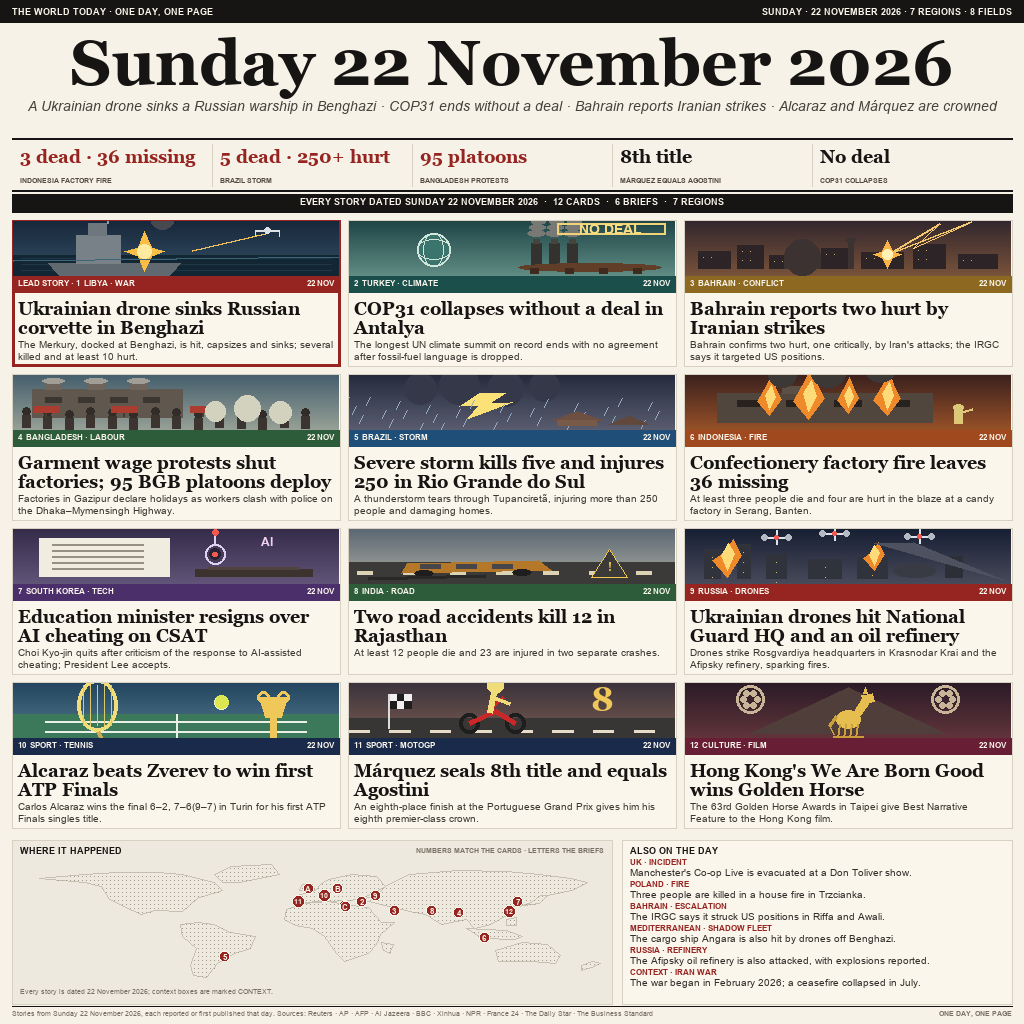
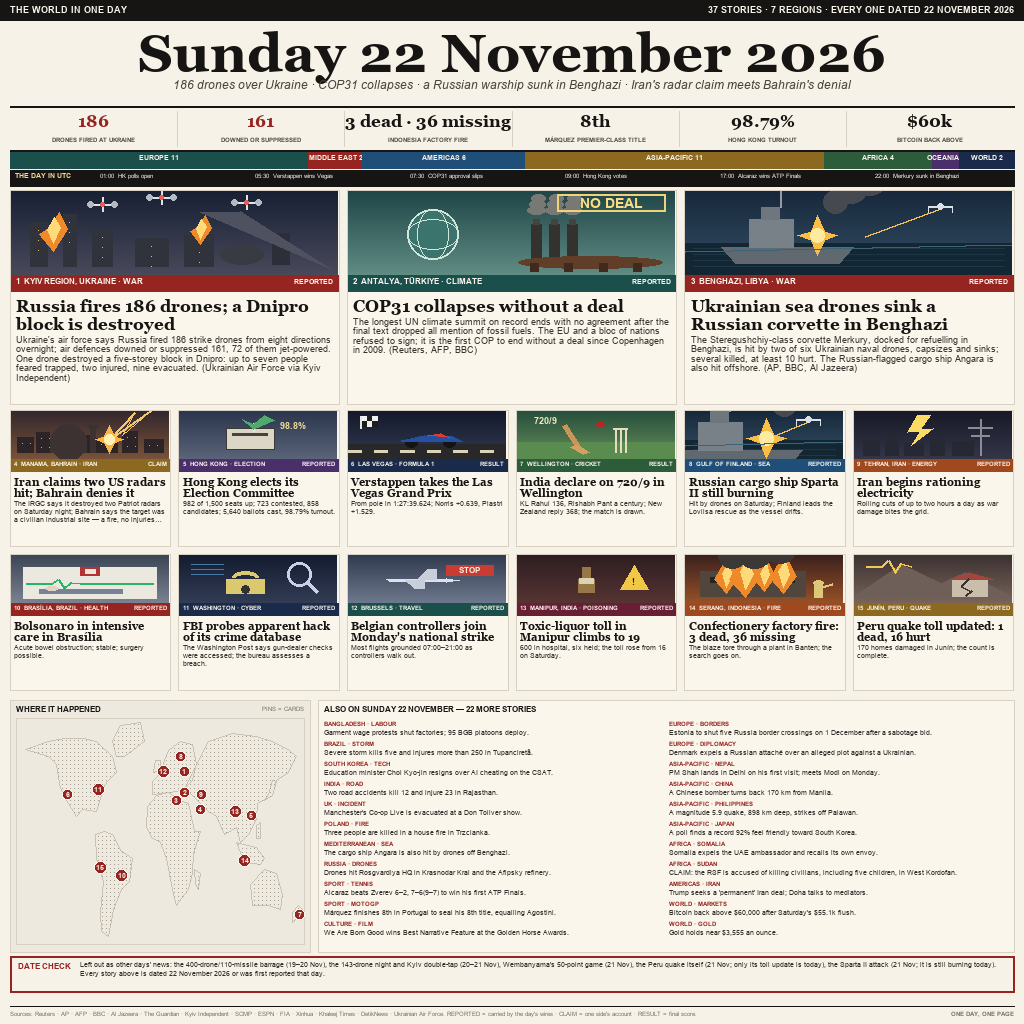
Rebuild the page as three leads, twelve cards and 22 briefs

diff --git a/README.md b/README.md
@@ -4,7 +4,7 @@
 [![rank](https://make.fun/badge/news-image-20261122/sondero-ai/news-image-20261122/rank.svg)](https://make.fun/bounty/news-image-20261122/leaderboard?utm_source=github&utm_medium=readme&utm_campaign=news-image-20261122)
 [![reward](https://make.fun/badge/news-image-20261122/sondero-ai/news-image-20261122/reward.svg)](https://make.fun/bounty/news-image-20261122?utm_source=github&utm_medium=readme&utm_campaign=news-image-20261122)
 
-A one-page broadsheet that sums up the world news of Sunday, 22 November 2026: the sinking of the Russian corvette Merkury in Benghazi, the collapse of COP31 in Antalya, Iranian strikes on Bahrain, Bangladesh's garment wage protests, storms and fires in Brazil and Indonesia, and the day's other stories, each with a short label a reader can follow.
+A one-page broadsheet that sums up the world news of Sunday, 22 November 2026: Russia's 186-drone night attack on Ukraine, COP31's collapse in Antalya, the sinking of the Russian corvette Merkury in Benghazi, and 34 more stories across seven regions, each dated to the day.
 
 ## Run it
 
